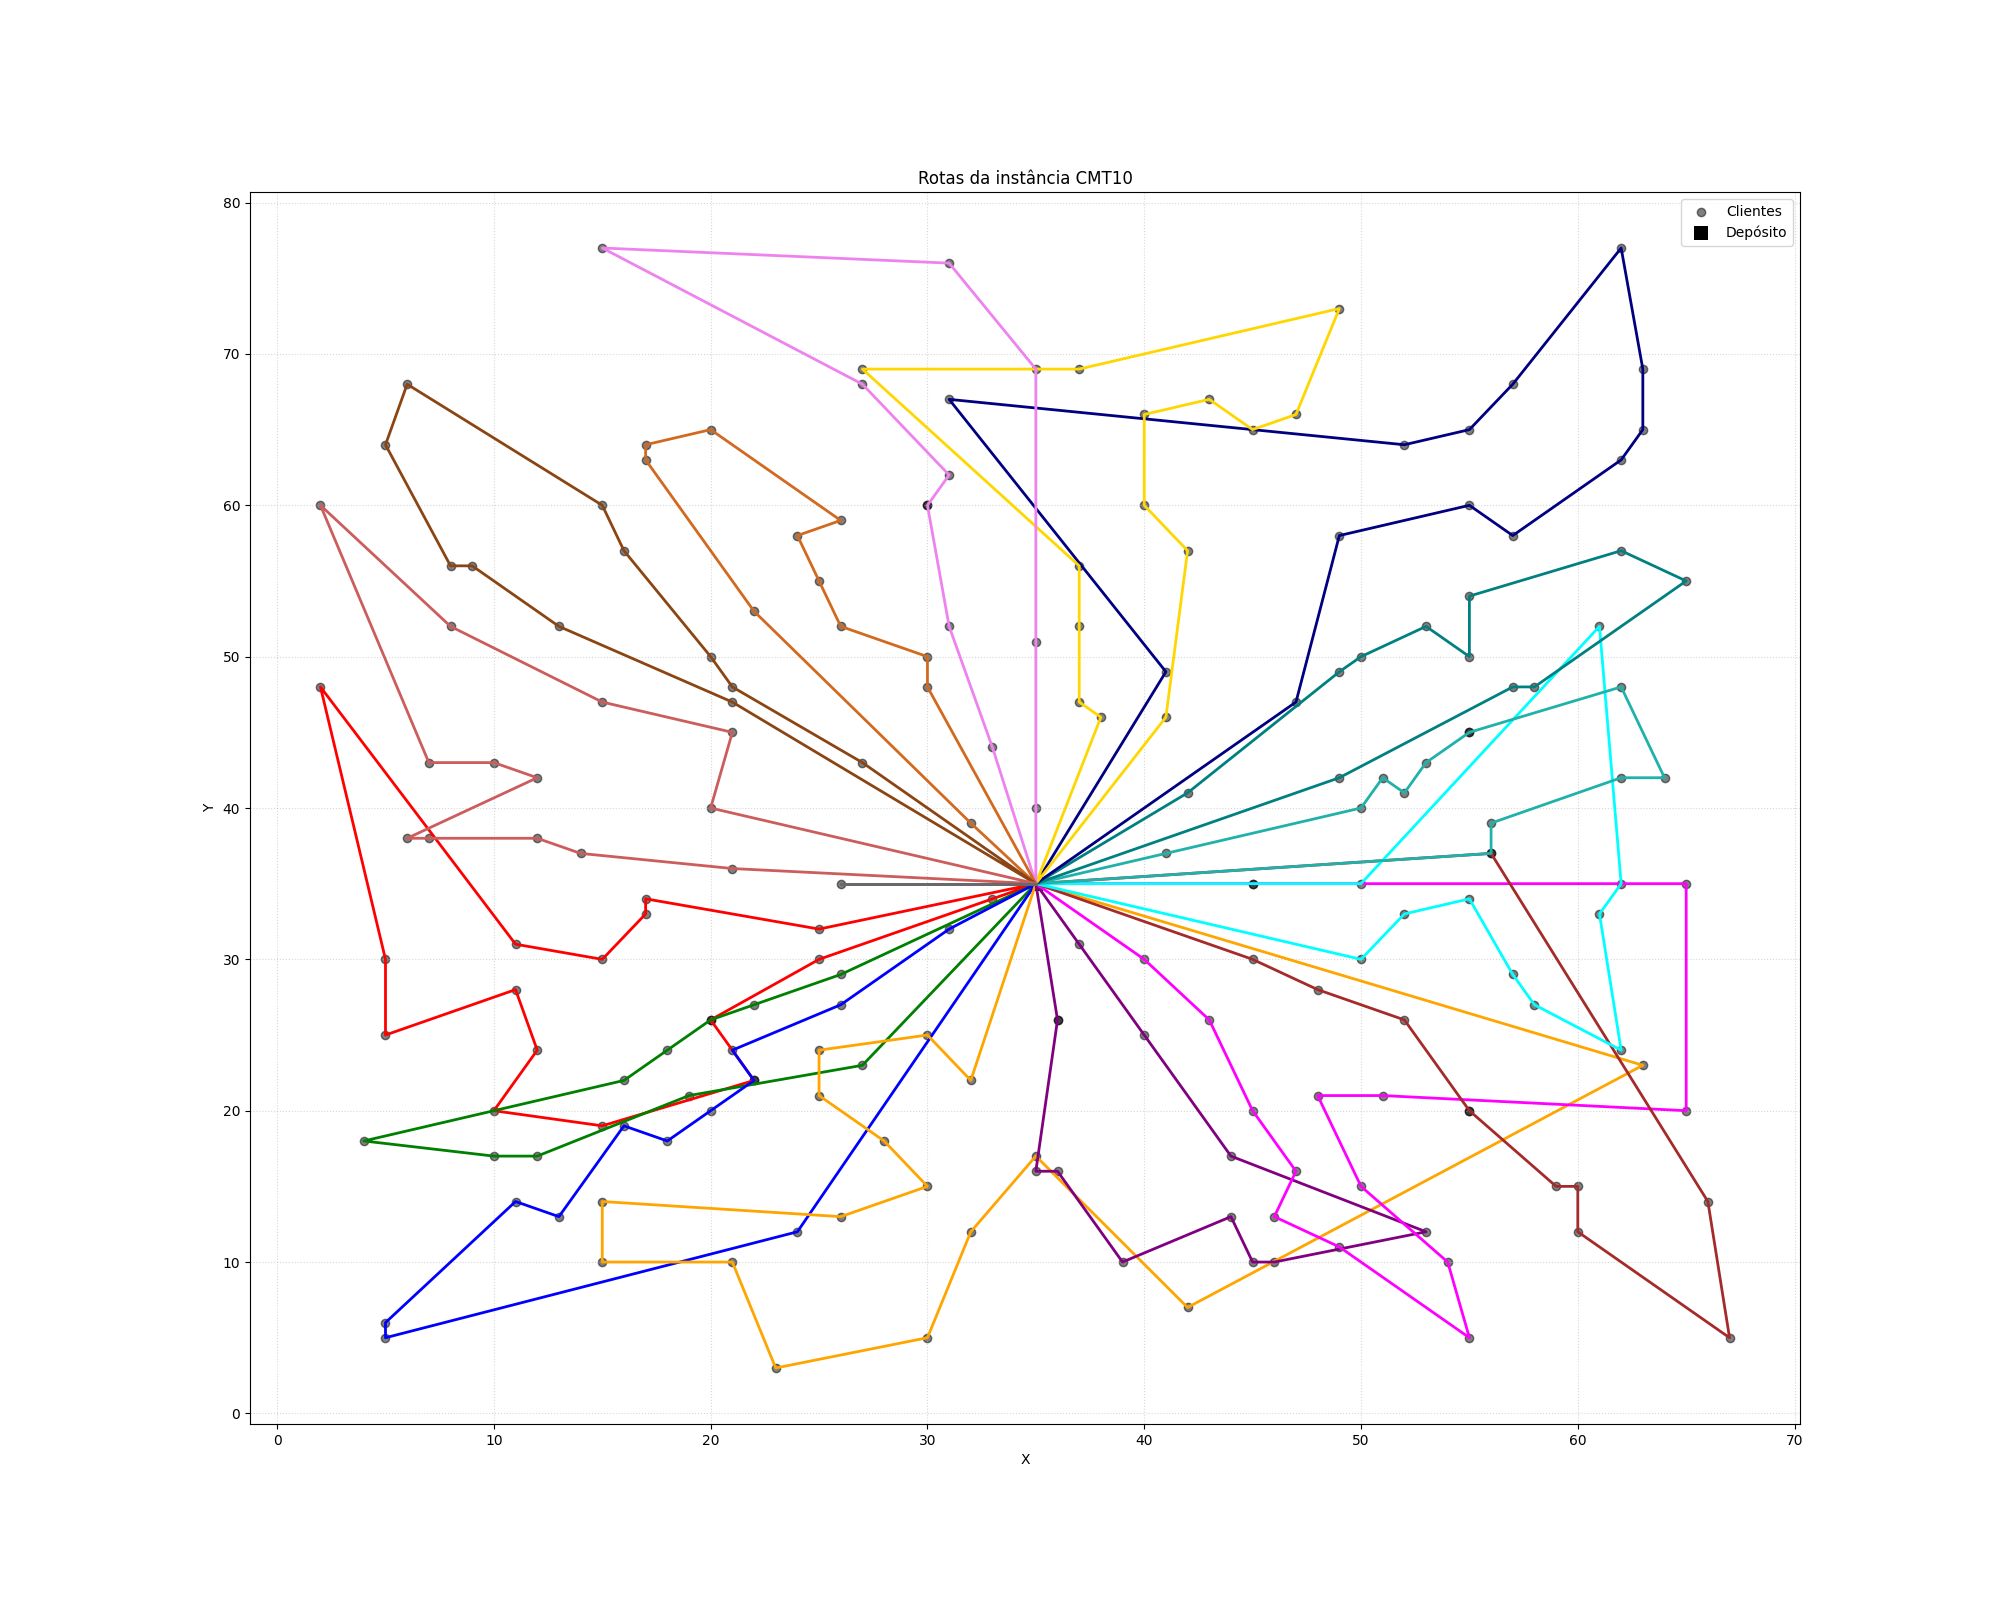
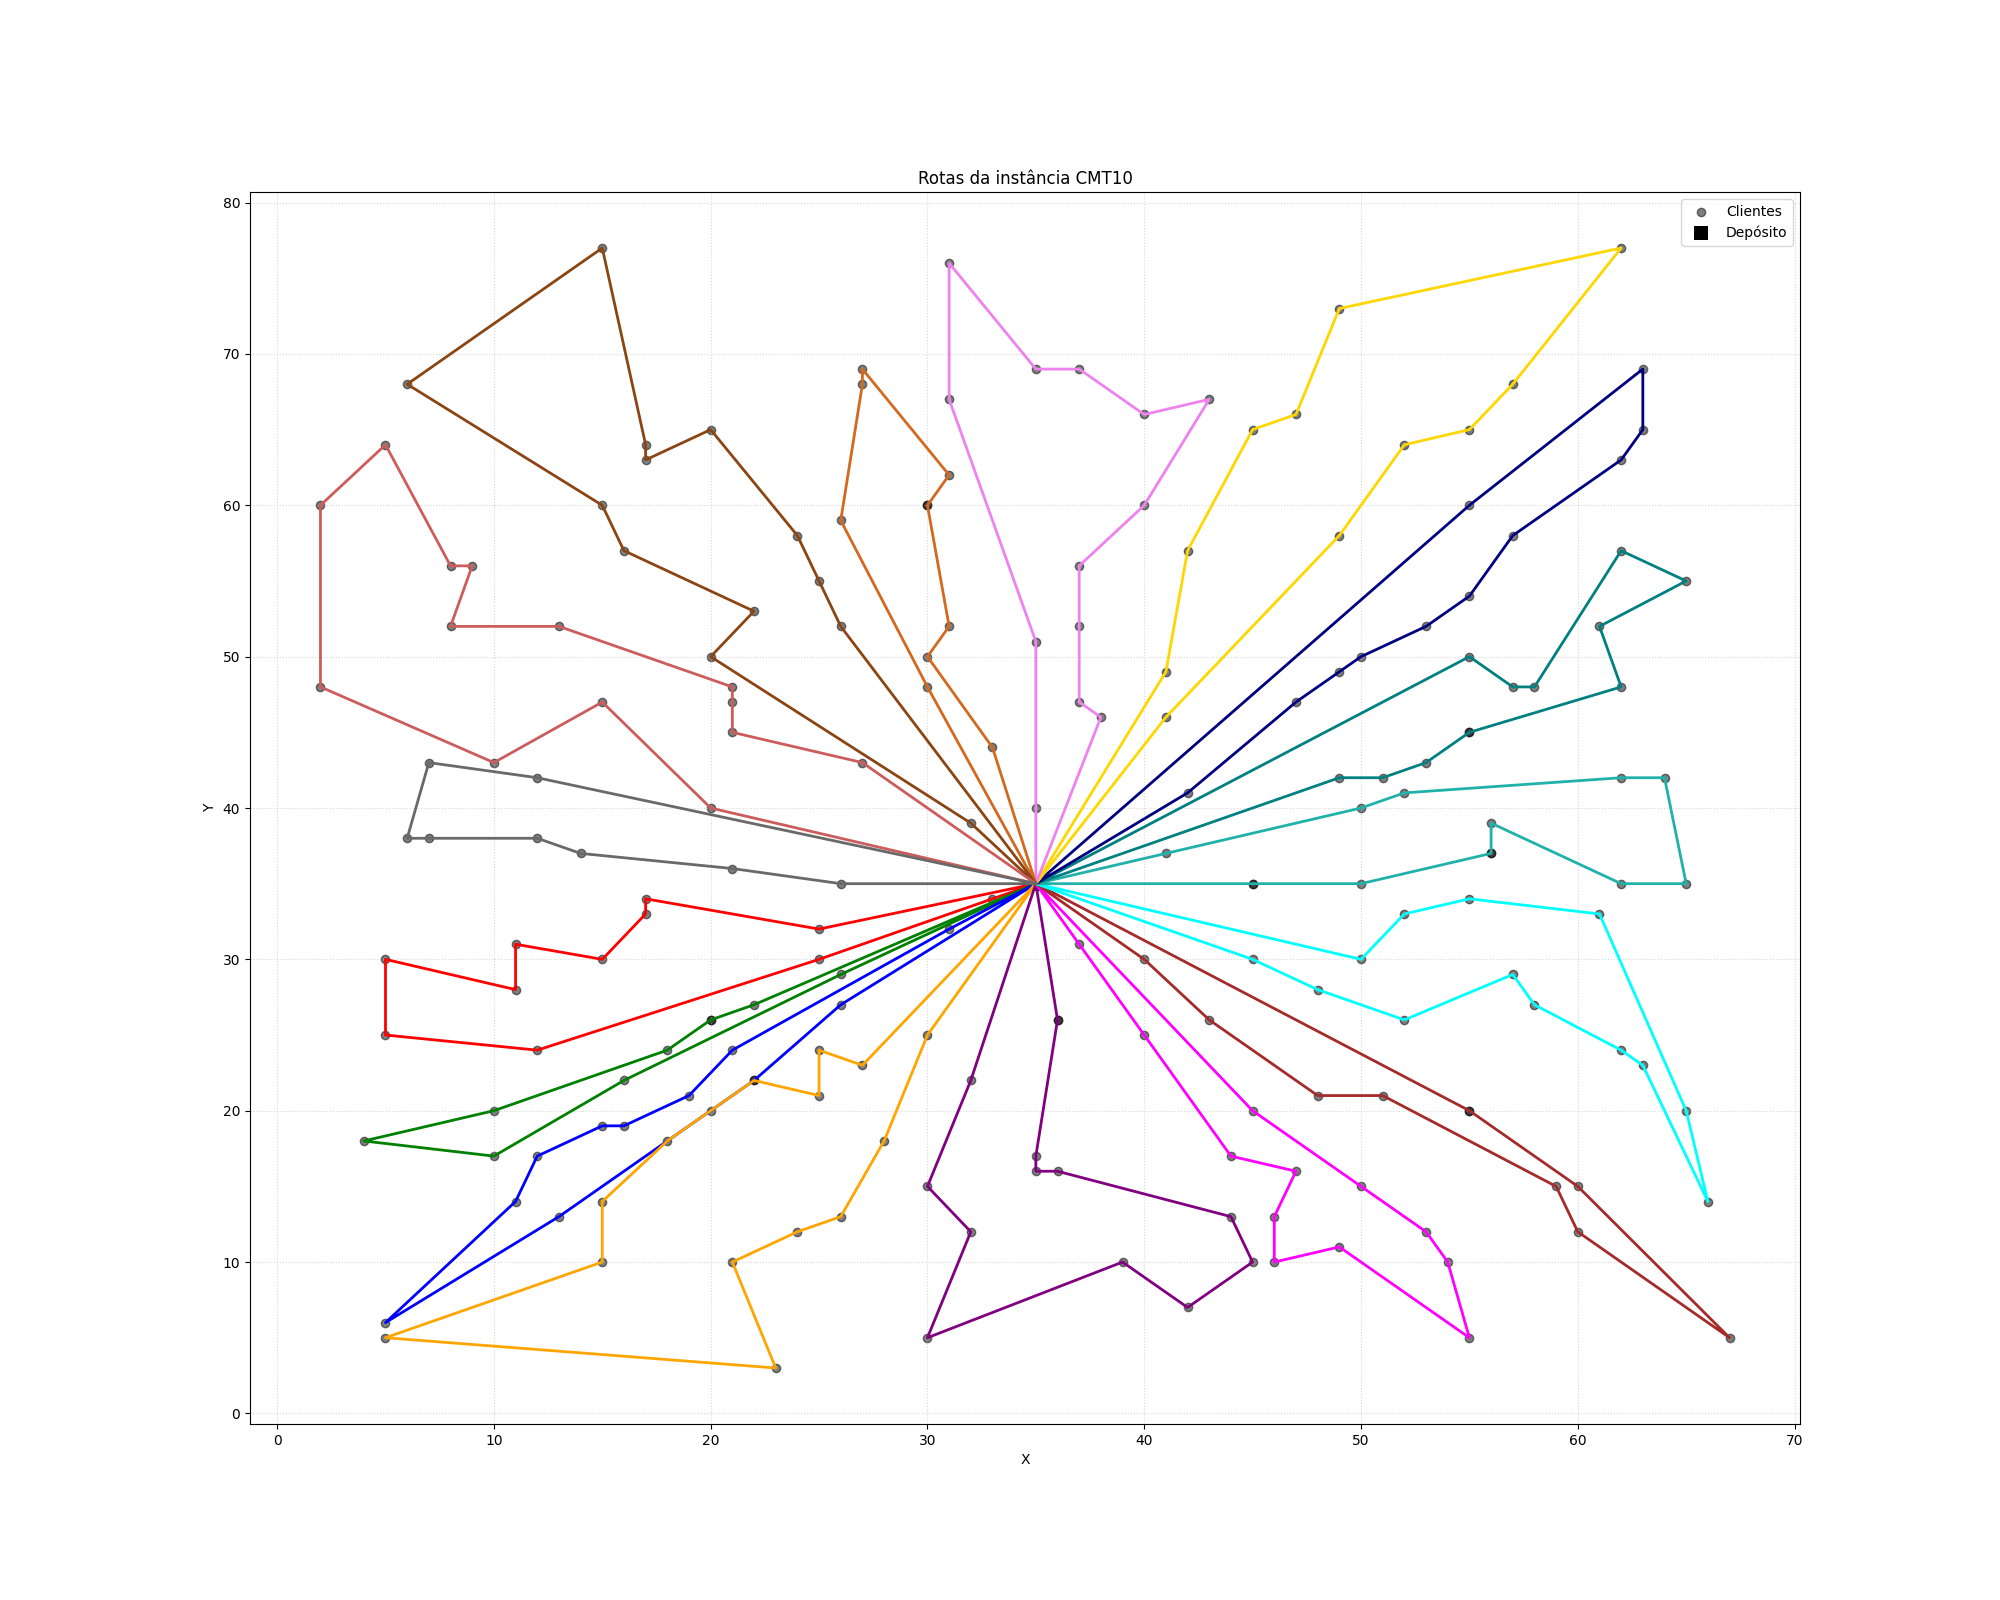
Adicionando penalização de veiculos e alguns ajustes

diff --git a/gillet_miller.py b/gillet_miller.py
@@ -12,6 +12,8 @@ class GilletMiller:
         self.rotas = []
         self.custo_total = 0.0
 
+
+    # Calcula o ângulo polar de cada cliente em relaçao ao deposito
     def calcular_angulos(self):
         deposito_x, deposito_y = self.nos[self.deposito]
         clientes_angulos = []
@@ -21,29 +23,38 @@ class GilletMiller:
             angulo = math.atan2(y - deposito_y, x - deposito_x)
             clientes_angulos.append((angulo, no_id))
 
+        # Ordena a lista pelo ângulo, criando a ordem de varredura
         clientes_angulos.sort()
         return clientes_angulos
 
+
+    # Calcula o custo da distancia total percorrida por todas as rotas
     def calcula_custo(self):
         custo = 0.0
         for rota in self.rotas:
             if not rota: continue
+            # custo depósito ate o primeiro cliente
             custo += self.matriz_distancias[self.deposito][rota[0]]
+            # custo entre os clientes da rota
             for i in range(len(rota) - 1):
                 custo += self.matriz_distancias[rota[i]][rota[i + 1]]
+            # custo do ultimo cliente voltando pra rota
             custo += self.matriz_distancias[rota[-1]][self.deposito]
         return custo
 
-    def k_otimo(self, rota_cluster):
-        #se a rota tem 1 ou 2 clientes entao nao tem o que otimizar com k-otimo
+    # Busca local 2-opt
+    def dois_opt(self, rota_cluster):
+        # Se a rota tem 1 ou 2 clientes entao nao tem o que otimizar com dois_opt
         if len(rota_cluster) <= 2:
             return rota_cluster
 
         rota = [self.deposito] + rota_cluster + [self.deposito]
         melhoria = True
 
+        # Itera até que nenhuma troca melhore o custo da rota mais
         while melhoria:
             melhoria = False
+
             # Percorre todas as combinações de duas arestas para quebrar e reconectar
             for i in range(1, len(rota) - 2):
                 for j in range(i + 1, len(rota) - 1):
@@ -54,45 +65,59 @@ class GilletMiller:
 
                     #custo:
                     custo_atual = self.matriz_distancias[no_i_ant][no_i] + self.matriz_distancias[no_j][no_j_prox]
-                    #custo se ineverter o caminho:
+                    #custo se inverter o caminho:
                     custo_novo = self.matriz_distancias[no_i_ant][no_j] + self.matriz_distancias[no_i][no_j_prox]
 
+                    # Usa - 1e-6 que é um valor mto pequeno como tolerancia pra evitar problema de ponto flutuante
                     if custo_novo < custo_atual - 1e-6:
                         rota[i:j + 1] = reversed(rota[i:j + 1])
                         melhoria = True
 
         return rota[1:-1]
 
+    # Foi adaptado do livro do Goldbarg e Luna "Otimização Combinatória e Programação Linear"
     def gillet_miller(self):
+        # Pega a ordem polar dos clientes em relação ao deposito
         clientes_ordenados = self.calcular_angulos()
 
-        #F := N \ {x1} (Lista de clientes q n foram roteados ainda)
+        # clientes que nao foram roteados ainda
         F = [cliente_id for angulo, cliente_id in clientes_ordenados]
         self.rotas = []
 
-        #Enquanto F != vazio
         while len(F) > 0:
             rota_atual = []
             carga_atual = 0
-            clientes_para_remover = []
 
-            #agrupar:
+            # Vai guardar quem NÃO couber no caminhão
+            clientes_que_sobraram = []
+
+            # Agrupar:
             for xs in F:
                 demanda_xs = self.demandas[xs]
 
                 if carga_atual + demanda_xs <= self.capacidade:
                     rota_atual.append(xs)
                     carga_atual += demanda_xs
-                    clientes_para_remover.append(xs)
+                else:
+                    # Se não cabe guarda pro prox caminhão
+                    clientes_que_sobraram.append(xs)
 
-            #F := F \ {xs}
-            for xs in clientes_para_remover:
-                F.remove(xs)
+            # Atualiza F para conter apenas os clientes que não couberam nesta rota
+            F = clientes_que_sobraram
 
-            #chama k-otimo:
-            rota_otimizada = self.k_otimo(rota_atual)
+            # Chama 2-opt
+            rota_otimizada = self.dois_opt(rota_atual)
             self.rotas.append(rota_otimizada)
 
         self.custo_total = self.calcula_custo()
+
+        # Como Gillet Miller não prevê limite de frota, penalizei o custo se a quantidade ultrapassar K
+        veiculos_usados = len(self.rotas)
+        veiculos_disponiveis = self.dados.get('trucks', veiculos_usados)
+
+        if type(veiculos_disponiveis) == int and veiculos_usados > veiculos_disponiveis:
+            rotas_extras = veiculos_usados - veiculos_disponiveis
+            penalidade = rotas_extras * (self.custo_total / veiculos_usados) * 1.5;
+            self.custo_total += penalidade
 
         return self.rotas, self.custo_total

diff --git a/mole_jameson.py b/mole_jameson.py
@@ -30,7 +30,7 @@ def mole_jameson(instancia, lambda_param=1.0):
     rotas = []
     custo_total = 0.0
 
-    while clientes_sem_rota and len(rotas) < instancia['trucks']:
+    while clientes_sem_rota:
         # Abre um novo caminhão a partir do depósito
         rota_atual = Rota(deposito)
 
@@ -80,5 +80,15 @@ def mole_jameson(instancia, lambda_param=1.0):
 
         rotas.append(rota_atual.caminho)
         custo_total += rota_atual.custo_atual
+
+    # Como a heurística não prevê limite de frota, penalizamos o custo
+    # caso a quantidade de caminhões usados ultrapasse o limite
+    veiculos_usados = len(rotas)
+    veiculos_disponiveis = instancia.get('trucks', veiculos_usados)
+
+    if type(veiculos_disponiveis) == int and veiculos_usados > veiculos_disponiveis:
+        rotas_extras = veiculos_usados - veiculos_disponiveis
+        penalidade = rotas_extras * (custo_total / veiculos_usados) * 1.5;
+        custo_total += penalidade
 
     return rotas, custo_total

diff --git a/utils.py b/utils.py
@@ -35,7 +35,7 @@ def ler_instancia (instancia):
                 secao_atual = "DEPOT"
                 continue
 
-            # Leitura do cabeçalho do arquivo
+            #leitura do cabeçalho do arquivo
             if secao_atual is None:
                 if ":" in linha:
                     chave, valor = linha.split(":", 1)
@@ -80,8 +80,8 @@ def ler_instancia (instancia):
             'instances/A-n80-k10.vrp': 10,
             'instances/CMT10.vrp': 18,
             'instances/E-n101-k14.vrp': 14,
-            'instances/F-n72-k4.vrp': 7,
-            'instances/F-n135-k7.vrp': 4,
+            'instances/F-n72-k4.vrp': 4,
+            'instances/F-n135-k7.vrp': 7,
             'instances/Golden_3.vrp': 27,
             'instances/Golden_18.vrp': 9,
             'instances/Li_21.vrp': 10,
